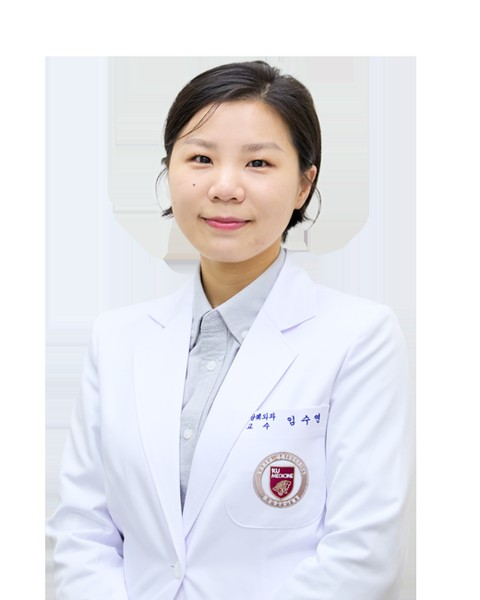
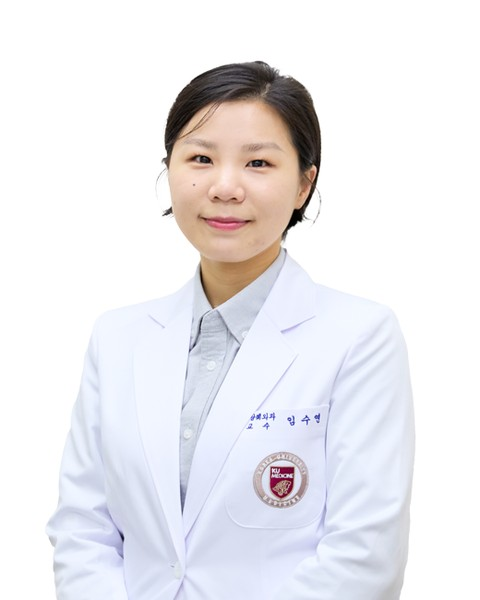
Fix Lim Soo Yeon's portrait background and remove the Ph.D. credential
The cut-out PNG was flattened with a plain alpha-channel drop, which
kept the original anti-aliased edge colors (gray/tan hair-fringe
pixels at low alpha) as fully opaque - a visible halo around the hair
that the other professors' photos don't have. Re-flattened with
proper alpha compositing onto pure white (paste using the alpha band
as mask), matching their clean background; size/crop were already
480x600 same as the others.

Also: she's M.D. only, not Ph.D. - dropped from both the name line and
the photo alt text.

Claude-Session: https://claude.ai/code/session_01QeFUR3xcoARhb2yx99nVQw

diff --git a/index.html b/index.html
@@ -710,10 +710,10 @@
         <div class="person-card">
           <picture>
             <source srcset="assets/photos/lim-sooyeon.webp" type="image/webp">
-            <img class="person-photo" src="assets/photos/lim-sooyeon.jpg" width="480" height="600" alt="Soo Yeon Lim, M.D., Ph.D." loading="lazy" decoding="async">
+            <img class="person-photo" src="assets/photos/lim-sooyeon.jpg" width="480" height="600" alt="Soo Yeon Lim, M.D." loading="lazy" decoding="async">
           </picture>
           <div class="person-info">
-            <p class="pn">Soo Yeon Lim, M.D., Ph.D. <span class="kr">임수연</span></p>
+            <p class="pn">Soo Yeon Lim, M.D. <span class="kr">임수연</span></p>
             <p class="pr" data-en="Professor, Division of Hepatobiliary-Pancreatic Surgery" data-ko="교수, 간담췌외과">Professor, Division of Hepatobiliary-Pancreatic Surgery</p>
             <p class="pd" data-en="As a specialist in surgery for pancreatic and biliary diseases including pancreatic cancer, she mainly conducts research on pancreatic cancer." data-ko="췌장암을 포함한 췌장담낭질환 수술 전문가로서 췌장암 관련 연구를 주로 수행하고 있습니다.">As a specialist in surgery for pancreatic and biliary diseases including pancreatic cancer, she mainly conducts research on pancreatic cancer.</p>
           </div>
